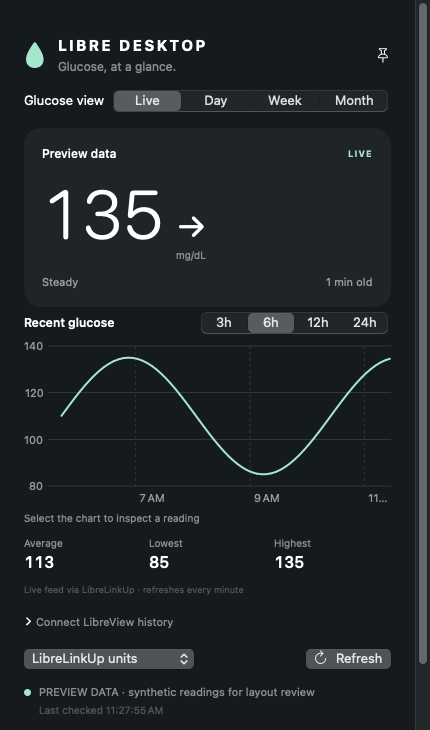
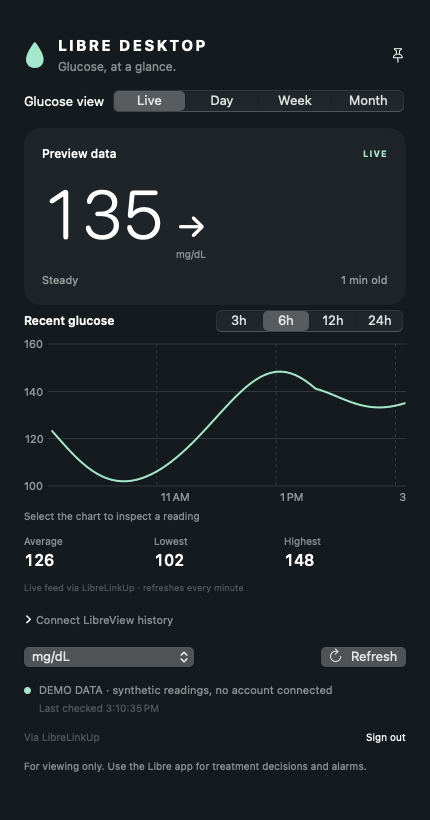
Add screenshot gallery and locally packaged macOS downloads

diff --git a/scripts/render-libre.swift b/scripts/render-libre.swift
@@ -2,52 +2,72 @@ import AppKit
 import SwiftUI
 
 @main struct RenderLibre {
+    // Synthetic meal-shaped variation, independent of any account or archive.
+    static func glucose(at date: Date, origin: Date) -> Double {
+        let calendar = GlucosePeriod.calendar
+        let hour = date.timeIntervalSince(calendar.startOfDay(for: date)) / 3600
+        let day = date.timeIntervalSince(origin) / 86400
+        func peak(_ center: Double, _ width: Double) -> Double {
+            exp(-pow((hour - center) / width, 2))
+        }
+        return 101 + 7 * sin(day / 2.3) + 4 * sin(hour * 1.7)
+            + 31 * peak(8.5, 1.2) + 47 * peak(13.2, 1.4) + 37 * peak(19.4, 1.5)
+    }
+
+    @MainActor static func render<V: View>(_ view: V, size: NSSize, to file: URL) throws {
+        let window = NSWindow(contentRect: NSRect(origin: NSPoint(x: -10000, y: -10000), size: size), styleMask: [.borderless], backing: .buffered, defer: false)
+        window.isReleasedWhenClosed = false
+        let host = NSHostingView(rootView: view.frame(width: size.width, height: size.height))
+        window.contentView = host
+        host.layoutSubtreeIfNeeded()
+        RunLoop.main.run(until: Date().addingTimeInterval(0.3))
+        // Capture at the view's native backing resolution; do not upscale.
+        guard let bitmap = host.bitmapImageRepForCachingDisplay(in: host.bounds) else { fatalError("No image") }
+        host.cacheDisplay(in: host.bounds, to: bitmap)
+        try bitmap.representation(using: .png, properties: [:])!.write(to: file)
+        window.close()
+    }
+
     @MainActor static func main() throws {
         NSApplication.shared.setActivationPolicy(.prohibited)
         let folder = URL(fileURLWithPath: CommandLine.arguments[1])
         try FileManager.default.createDirectory(at: folder, withIntermediateDirectories: true)
+        let now = Date()
+        let origin = GlucosePeriod.calendar.startOfDay(for: now)
+        let archive = (0..<(70 * 288)).map { index in
+            let date = now.addingTimeInterval(Double(index - 70 * 288) * 300)
+            return GlucoseReading(mgdl: glucose(at: date, origin: origin), date: date, trend: nil, unit: .mgdl, high: false, low: false)
+        }
         for mode in ["signin", "live", "live-24", "stale", "day", "week", "month", "empty"] {
             let store = LibreStore()
+            store.unit = .mgdl
             store.hours = mode == "live-24" ? 24 : 6
             if mode != "signin" {
-                let now = Date()
                 let latest = now.addingTimeInterval(mode == "stale" ? -1100 : -60)
-                store.history = (0..<70).map { index in
-                    GlucoseReading(mgdl: 110 + 25 * sin(Double(index) / 9), date: latest.addingTimeInterval(Double(index - 69) * 300), trend: 3, unit: .mgdl, high: false, low: false)
+                let adjustment = 135 - glucose(at: latest, origin: origin)
+                store.history = (0..<288).map { index in
+                    let date = latest.addingTimeInterval(Double(index - 287) * 300)
+                    let blend = max(0, 1 - latest.timeIntervalSince(date) / 5400)
+                    return GlucoseReading(mgdl: glucose(at: date, origin: origin) + adjustment * blend, date: date, trend: 3, unit: .mgdl, high: false, low: false)
                 }
                 store.reading = store.history.last
                 store.needsSignIn = false; store.hasAccount = true; store.online = mode != "stale"
                 store.lastFetched = now
                 store.connections = [LibreConnection(id: "preview", name: "Preview data", reading: store.reading)]
                 store.selectedID = "preview"
-                store.message = "PREVIEW DATA · synthetic readings for layout review"
+                store.message = "DEMO DATA · synthetic readings, no account connected"
                 if ["day", "week", "month", "empty"].contains(mode) {
                     store.trends.mode = mode == "empty" ? .day : GlucosePeriod.allCases.first { $0.rawValue.lowercased() == mode }!
+                    store.trends.anchor = GlucosePeriod.calendar.date(byAdding: store.trends.mode.component, value: -1, to: now)!
                     store.trends.hasAccount = true; store.trends.person = "Preview data"
-                    var samples = [GlucoseReading]()
-                    if mode != "empty" {
-                        for index in 0..<9500 where index < 7000 || index > 7300 {
-                            let value = 115.0 + 22.0 * sin(Double(index) / 15.0)
-                            let date = latest.addingTimeInterval(Double(index - 9499) * 300)
-                            samples.append(GlucoseReading(mgdl: value, date: date, trend: nil, unit: .mgdl, high: false, low: false))
-                        }
-                    }
-                    store.trends.readings = samples
+                    store.trends.readings = mode == "empty" ? [] : archive
                     store.trends.firstSaved = store.trends.readings.first?.date
                     store.trends.savedCount = store.trends.readings.count
                     store.trends.message = "LibreView history saved · updates every 15 minutes"
                 }
             }
-            let window = NSWindow(contentRect: NSRect(x: -10000, y: -10000, width: 430, height: 730), styleMask: [.borderless], backing: .buffered, defer: false)
-            window.isReleasedWhenClosed = false
-            let host = NSHostingView(rootView: LibreWidget(store: store, pin: {}).frame(width: 430, height: 730))
-            window.contentView = host
-            host.layoutSubtreeIfNeeded()
-            RunLoop.main.run(until: Date().addingTimeInterval(0.3))
-            guard let bitmap = host.bitmapImageRepForCachingDisplay(in: host.bounds) else { fatalError("No image") }
-            host.cacheDisplay(in: host.bounds, to: bitmap)
-            try bitmap.representation(using: .png, properties: [:])!.write(to: folder.appendingPathComponent("\(mode).png"))
-            window.close()
+            let height: CGFloat = mode == "signin" ? 650 : mode == "week" ? 1050 : 820
+            try render(LibreWidget(store: store, pin: {}), size: NSSize(width: 430, height: height), to: folder.appendingPathComponent("\(mode).png"))
         }
         print("Rendered eight synthetic previews without displaying windows.")
         for name in ["week-selected", "month-selected", "month-empty"] {

diff --git a/README.md b/README.md
@@ -4,13 +4,37 @@ A native macOS glucose viewer with a floating desktop widget, a menu-bar reading
 
 Live readings come from your existing **LibreLinkUp** account. Optional history comes from your **LibreView** account. This project runs independently of Garmin and has no Python or third-party package dependencies.
 
+**[Download the Mac app (.dmg)](https://github.com/sshivaji/libre-desktop/releases/latest/download/Libre-Desktop-0.2.2-universal.dmg)** · [ZIP bundle](https://github.com/sshivaji/libre-desktop/releases/latest/download/Libre-Desktop-0.2.2-universal.zip) · [Release notes and checksums](https://github.com/sshivaji/libre-desktop/releases/latest)
+
+**macOS 14+ · Apple Silicon and Intel · No Xcode or Terminal needed to install**
+
 **This is a desktop app with a widget-style window, not a WidgetKit extension in macOS's “Add Widgets” gallery.** It can appear across Spaces and be pinned above other windows. The app must be running and the Mac awake to refresh.
 
 An independent, unofficial project; not affiliated with Abbott. For reference only, not treatment decisions or replacement glucose alarms. The official Libre app remains the source for treatment decisions and alarms. These cloud services may lag the sensor, and their undocumented interfaces can change.
 
-<img src="docs/images/live.png" alt="Libre Desktop live view with synthetic preview readings" width="430">
+## Install and connect
 
-*Preview image uses synthetic data.*
+1. **Download and drag.** Open the [DMG](https://github.com/sshivaji/libre-desktop/releases/latest/download/Libre-Desktop-0.2.2-universal.dmg), then drag **Libre Desktop.app** to **Applications**. Quit an older copy before replacing it. With the ZIP, unzip and move the app to Applications.
+2. **Open and sign in.** Open Libre Desktop and enter the **LibreLinkUp** credentials for the account that already shows your readings. Region detection is automatic.
+3. **Add history if you want it.** Expand **Connect LibreView history** and enter your **LibreView website** credentials. Live and historical data use separate sign-ins and work together.
+
+**First launch:** this community build is ad-hoc signed and **not Apple-notarized**. If macOS blocks it because the developer cannot be verified, and you trust this repository's download, try opening the app, then use **System Settings → Privacy & Security → Open Anyway** for Libre Desktop. Managed Macs may restrict this. See [Apple's opening instructions](https://support.apple.com/en-us/102445). The install guide is also included inside the DMG.
+
+<img src="docs/images/signin.png" alt="The LibreLinkUp sign-in screen with email, password, and automatic region detection" width="330">
+
+## Screenshots
+
+These are captures of the app's actual SwiftUI views, populated with **synthetic example readings**. The live example shows **135 mg/dL**; the charts illustrate realistic variation rather than publishing a person's glucose history. Click an image to view it at full size.
+
+| Live readings | Daily history |
+| --- | --- |
+| [<img src="docs/images/live.png" alt="Live glucose of 135 mg/dL with recent readings and a steady trend" width="330">](docs/images/live.png) | [<img src="docs/images/day.png" alt="Daily glucose average, last recorded value, and a full-day chart" width="330">](docs/images/day.png) |
+| Current value, trend, age, and recent chart | Daily average, low/high, and recorded coverage |
+
+| Weekly history | Monthly history |
+| --- | --- |
+| [<img src="docs/images/week.png" alt="Weekly glucose averages and a daily breakdown" width="330">](docs/images/week.png) | [<img src="docs/images/month.png" alt="Monthly glucose averages shown day by day" width="330">](docs/images/month.png) |
+| Compare days and inspect each day's range | Review longer trends and navigate past periods |
 
 ## Features
 
@@ -21,7 +45,7 @@ An independent, unofficial project; not affiliated with Abbott. For reference on
 - Explicit stale, offline, missing-data, and account-action states.
 - Keychain storage for each service's credentials and session.
 
-## Build and run
+## Build from source
 
 Requires macOS 14 or later and Apple developer tools with a Swift 5.9+ compiler. Install Xcode or its Command Line Tools (`xcode-select --install`). Apple Silicon is tested on hardware; Intel builds are cross-compiled but not yet tested on Intel hardware.
 
@@ -33,7 +57,7 @@ bash scripts/build.sh
 open 'build/Libre Desktop.app'
 ```
 
-The default build targets the current Mac and uses ad-hoc signing for local development. There is no notarized download or App Store release yet. Building from source requires no developer account, private signing key, or account credentials.
+The default build targets the current Mac and uses ad-hoc signing for local development. The downloadable release is also ad-hoc signed; there is no notarized or App Store release yet. Building from source requires no developer account, private signing key, or account credentials.
 
 Build a universal app with `LIBRE_ARCHS="arm64 x86_64" bash scripts/build.sh`. For your own signed distribution, set `LIBRE_SIGNING_IDENTITY` to an identity already in your Keychain; signing alone does not notarize the app.
 
@@ -65,6 +89,8 @@ Charts retain missing intervals and original measurement dates. LibreView device
 `bash scripts/test.sh` runs model, client, calendar, report-parsing, and archive checks locally using synthetic data and mock responses. It does not access an account or the network. Use `LIBRE_ARCHS="arm64 x86_64" bash scripts/build.sh` to build both CPU architectures locally. This repository does not use GitHub Actions. Successful mock tests do not establish current live-service compatibility.
 
 `bash scripts/render-previews.sh` generates synthetic screenshots under `build/previews` without restoring accounts or fetching readings. See [CONTRIBUTING.md](CONTRIBUTING.md) before submitting a change.
+
+`bash scripts/package-release.sh` builds both CPU architectures locally and creates a DMG, ZIP, install guide, and SHA-256 checksums under `build/releases/<version>`. Release assets contain the app and public documentation, with no credentials or local archives. No GitHub Actions are used.
 
 The source was separated from the local Epix Desktop workspace. The standalone project contains only the Libre app, tests, and build tools; no personal readings, account exports, or signing material are included.
 
